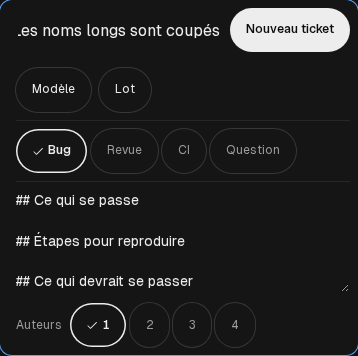
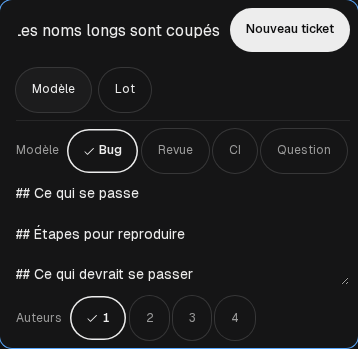
v2 P214: the art-director pass: the open chip's fill, the row's label, one rule less, focus on the first pick

diff --git a/v2/app/web/screens/tower/Tower.tsx b/v2/app/web/screens/tower/Tower.tsx
@@ -75,6 +75,7 @@ export function Bar({ t, title, body, services = [], picked = [], variants = 1, 
       </div>
       {templates ? (
         <div className="ask-templates" id="ask-templates" role="group" aria-label={t('bar_templates_label')}>
+          <span className="ask-variants-label" aria-hidden="true">{t('bar_template')}</span>
           {TICKET_TEMPLATES.map((id) => (
             <Toggle key={id} className="svc-toggle" pressed={template === id} onPressedChange={() => onTemplate?.(id)} data-template={id}>
               {template === id ? <Check size={12} aria-hidden="true" /> : null}{t(`template_${id}`)}
@@ -439,13 +440,14 @@ export default function Tower() {
     }
   };
 
-  // A ready-made ticket: its sections in an empty or untouched description, the title to write next.
+  // A ready-made ticket: its sections in an empty or untouched description, the title to write next. Only the
+  // first pick takes the focus to the title, so the keys can still go from one template to the next.
   const choose = (id: TicketTemplate) => {
     const pick = pickTemplate({ template, body }, id, t);
     setTemplate(pick.template);
     setBody(pick.body);
     setNote(pick.kept ? { text: t('template_kept'), kind: 'ok' } : null);
-    document.getElementById('ask-input')?.focus();
+    if (template === null && pick.template !== null) document.getElementById('ask-input')?.focus();
   };
   // The chip shows the row, or hides it with the template picked, its untouched sections with it.
   const toggleTemplates = () => {

diff --git a/v2/app/web/screens/tower/tower.css b/v2/app/web/screens/tower/tower.css
@@ -211,5 +211,9 @@
 .ask:has(#ask-input:not(:placeholder-shown)) .ask-variants { display: flex; }
 .ask textarea + .ask-variants { border-top: 0; padding-top: 2px; }
 .ask-variants-label { color: var(--text-muted); font-size: var(--text-sm); margin-right: var(--space-1); }
-/* The ready-made tickets (P214): a row under the field while the chip has it open or one is picked. */
+/* The ready-made tickets (P214): a row under the field while the chip has it open or one is picked; the
+   description it fills follows with no rule of its own, as the authors follow the description. */
+.ask-templates + textarea { border-top: 0; padding-top: 2px; }
+/* A chip whose row or form is open says so, in the hover's fill, never the ink of New ticket. */
+.ask-actions .chip-button[aria-expanded="true"] { background: var(--tab-fill); }
 .ask-templates { display: flex; flex-basis: 100%; flex-wrap: wrap; align-items: center; gap: var(--space-1); padding-top: var(--space-2); border-top: 1px solid var(--hairline); }

diff --git a/docs/v2/decisions-log.md b/docs/v2/decisions-log.md
@@ -5153,16 +5153,19 @@ The contract step of a multi-service ticket read OpenAPI 3 only: `contract = <ot
 
 **Decision.**
 1. **The kind is a label.** `src/tickets/templates.ts` holds the four ids (`bug`, `review`, `ci`, `question`) and the label a template's ticket carries, `type:<id>`, so a ticket's kind can be counted from the tracker's labels (P213's win per ticket type can read it). `POST /api/tickets` refuses a `type:` label that is not one of the four, or two of them, before the ticket exists; the other labels are not read. `CreateTicketBody` already had `labels`, so the API's contract does not change. The batches and the chat command do not take a template.
-2. **The words are the app's.** Each template's name, its title placeholder and its description are keys of `tower.en.json` and `tower.fr.json`. The description is Markdown sections with no colon ("## Steps to reproduce", "## Étapes pour reproduire"), so the French typography rule holds without a no-break space. Bug: what happens, the steps, what should happen, and a test that fails before the fix. Review: what to review, what to look for, findings ranked by severity with file and line, no change to the code unless asked. CI: the check and its run, the log lines, the check passing with no test skipped or removed. Question: the question, where to look (`service:path:line`), a written answer that cites the code, no change unless the answer needs one. "Bug" and "Question" are the same words in French, listed with the shared words of the i18n audit.
+2. **The words are the app's.** Each template's name, its title placeholder and its description are keys of `tower.en.json` and `tower.fr.json`. The description is Markdown sections with no colon ("## Steps to reproduce", "## Étapes pour reproduire"), so the French typography rule holds without a no-break space. Bug: what happens, the steps, what should happen, and a test that fails before the fix. Review: what to review, what to look for, each finding with its file, line and severity, and the ones within reach fixed on the branch, each with a test. CI: the check and its run, the log lines, the check passing with no test skipped or removed. Question: the question, where to look (`service:path:line`), and the answer written where the next reader will look for it (the README, a doc, a comment beside the code), citing the code. A first wording told Review and Question to change no code; but a branch with no commit of its own is not published (`workspace/publish.ts`, refusal `empty`) and the ticket is put back (`publish_refused`), so two of the four templates would have steered their tickets there. Each template now ends in a commit. "Bug" and "Question" are the same words in French, listed with the shared words of the i18n audit.
 3. **What is prefilled.** The description, and the title's placeholder ("What breaks, in a few words"). The title itself is not prefilled: a prefix such as "Bug: " would leave the title never empty, which the bar reads to show the description, the services and the authors, to reset them, and to refuse a ticket with no title. The label says the kind instead.
 4. **A pick never loses words.** A template's sections go into a description that is empty, or still as another template left it; a description the person wrote is kept, and the note says so ("Your description is kept: a template only fills an empty one."). The same template again unpicks it, and takes its untouched sections with it. `pickTemplate` in `app/web/screens/tower/templates.ts` is the rule, a pure function. New ticket sends the label, then empties the bar and closes the row.
-5. **In the bar.** A "Template" chip ("Modèle") before Batch shows a row of four toggles under the field, kept while one is picked; the chip then hides the row and unpicks. The row is in both shapes of the bar, with the services of a workspace of several or the authors of a workspace of one. On a phone (the tower narrower than 560 pixels) a third chip left the field a few letters ("Un obje…"): the field and New ticket keep their row (lane 38's rule), Template and Batch take the line under it, and what the bar opens comes after them. At 768 pixels the seven chips wrap and New ticket ends alone on the right of its line. The captures, at 1440, 1280, 768 and 390 pixels, light and dark, English and French, are in `docs/v2/ticket-templates/`; none scrolls sideways.
-6. **Question creates a ticket,** as the issue asks: an author session that answers in writing. "Ask about the code" stays the read-only path, and P215 (answers citing code with line links) is its own line.
-7. **Fixtures.** The fixture source keeps a new ticket's labels, checked as the service checks them, so the browser test reads the label back.
+5. **In the bar.** A "Template" chip ("Modèle") before Batch shows a row of four toggles under the field, labelled like the authors' row and kept while one is picked; the chip then hides the row and unpicks. The row is in both shapes of the bar, with the services of a workspace of several or the authors of a workspace of one. Only the first pick takes the focus to the title, so the keys can go from one template to the next. A chip whose row or form is open (Template, and Run a recipe and Batch with it) is drawn in the hover's fill.
+6. **The bar's rows.** The new chip made the actions wrap sooner: at 900 pixels (French) and already at 768 before this lane, New ticket ended alone on a line, and on a phone a third chip left the field a few letters ("Un obje…"). From the tower's 980-pixel step, the field and New ticket now keep the first row, the other actions take the lines under it, and what the bar opens comes after (`display: contents` on the actions, `order`, and an empty full-width item that ends the first row). On a phone this keeps lane 38's rule (the field and New ticket on one row); the bar is one line more there. Measured with and without the chip at 1440, 1280, 1024, 900, 768 and 600 pixels: New ticket is on the field's row at each. Under 980 pixels, Tab still reaches New ticket after the other actions, as a form's submit; moving it in the markup would break the order at the main widths. The captures, at 1440, 1280, 768 and 390 pixels, light and dark, English and French, and one of the French placeholder on a phone, are in `docs/v2/ticket-templates/`; none scrolls sideways.
+7. **Question creates a ticket,** as the issue asks: an author session that writes its answer down. "Ask about the code" stays the read-only path, and P215 (answers citing code with line links) is its own line.
+8. **Fixtures.** The fixture source keeps a new ticket's labels, checked as the service checks them, so the browser test reads the label back.
 
-**Tests first.** `b04dd90` was committed before any code: `test/tickets/templates.test.ts` (the ids, the label, the refusals, the route keeping the label), `app/web/test/tower-templates.test.tsx` (the chip and the row in both languages and both bar shapes, the placeholder, the sections, the pick rule, the label sent) and `app/test/tower-templates-browser.test.ts` (French and English at 1440 pixels, French at 390). On that code the first two fail to load their module (`src/tickets/templates.ts`, `templates.ts` of the tower) and the three browser tests time out (no Template chip). Changed after that commit: the browser test compared the sent `project` with `guestbook`, but the bar sends the header's project name (`Guestbook`), which this lane does not touch, so it compares the title, the description and the labels; the Vitest test's em dash check is written with a character code, as `app/test/static.test.ts` asks. The browser test is in the CI's `browser` job list (`.github/workflows/v2.yml`).
+**Tests first.** `b04dd90` was committed before any code: `test/tickets/templates.test.ts` (the ids, the label, the refusals, the route keeping the label), `app/web/test/tower-templates.test.tsx` (the chip and the row in both languages and both bar shapes, the placeholder, the sections, the pick rule, the label sent) and `app/test/tower-templates-browser.test.ts` (French and English at 1440 pixels, French at 390). On that code the first two fail to load their module (`src/tickets/templates.ts`, `templates.ts` of the tower) and the three browser tests time out (no Template chip). Changed after that commit: the browser test compared the sent `project` with `guestbook`, but the bar sends the header's project name (`Guestbook`), which this lane does not touch, so it compares the title, the description and the labels; the Vitest test's em dash check is written with a character code, as `app/test/static.test.ts` asks; its check of the Question wording follows item 2 (an answer written down, no "no change to the code").
 
-**Checks.** `npm run typecheck` passes. `npm test` (the build, `node --test` and Vitest): 1929 Node tests, 1878 pass, 51 skipped because `CLEARED_V2_PLAYWRIGHT` is not set, 0 fail; 306 Vitest tests pass. `app/test/tower-templates-browser.test.ts` with `CLEARED_V2_PLAYWRIGHT`: 3 of 3 pass. `npm run guard -- --base origin/v2` is run before the READY.
+**Art-director pass** (Impeccable's critique, the design review in a separate agent, its detector on `Tower.tsx`: nothing found; its browser overlay not run, as it would open a listening server). Taken: the open chip's fill, the row's label, no hairline between the row and the description it fills, the focus on the first pick only, a capture of the placeholder. Not taken: the focus order under 980 pixels (item 6). Seen and left: on a 390-pixel phone the French placeholder "Ce qui casse, en quelques mots" is cut at the field's edge. The browser test is in the CI's `browser` job list (`.github/workflows/v2.yml`).
+
+**Checks.** `npm run typecheck` passes. `npm test` (the build, `node --test` and Vitest): 1929 Node tests, 1878 pass, 51 skipped because `CLEARED_V2_PLAYWRIGHT` is not set, 0 fail; 306 Vitest tests pass. The browser job's thirteen files, this lane's and `tower-batch-browser.test.ts`, with `CLEARED_V2_PLAYWRIGHT` and `CLEARED_V2_CHROME` as the CI sets them: 38 tests, 37 pass in one run; the one that failed is the screen-switch budget of `foundation/budget-browser.test.ts` (a p95 of 123 ms over its 100 ms while fifteen browser files ran at once), which passed twice when run alone. After the art-director pass: `tower-templates-browser.test.ts`, `tower-batch-browser.test.ts` and `shell/shell-browser.test.ts`, 10 of 10 pass, and Vitest's 306. `npm run guard -- --base origin/v2`: nothing refused.
 
 **Resources.** No Docker object, no chat, Cursor or Codex account, no network beyond `npm ci` of the lock file, no tunnel, no secret; the tests and the captures listen on port 0 on loopback.
 
